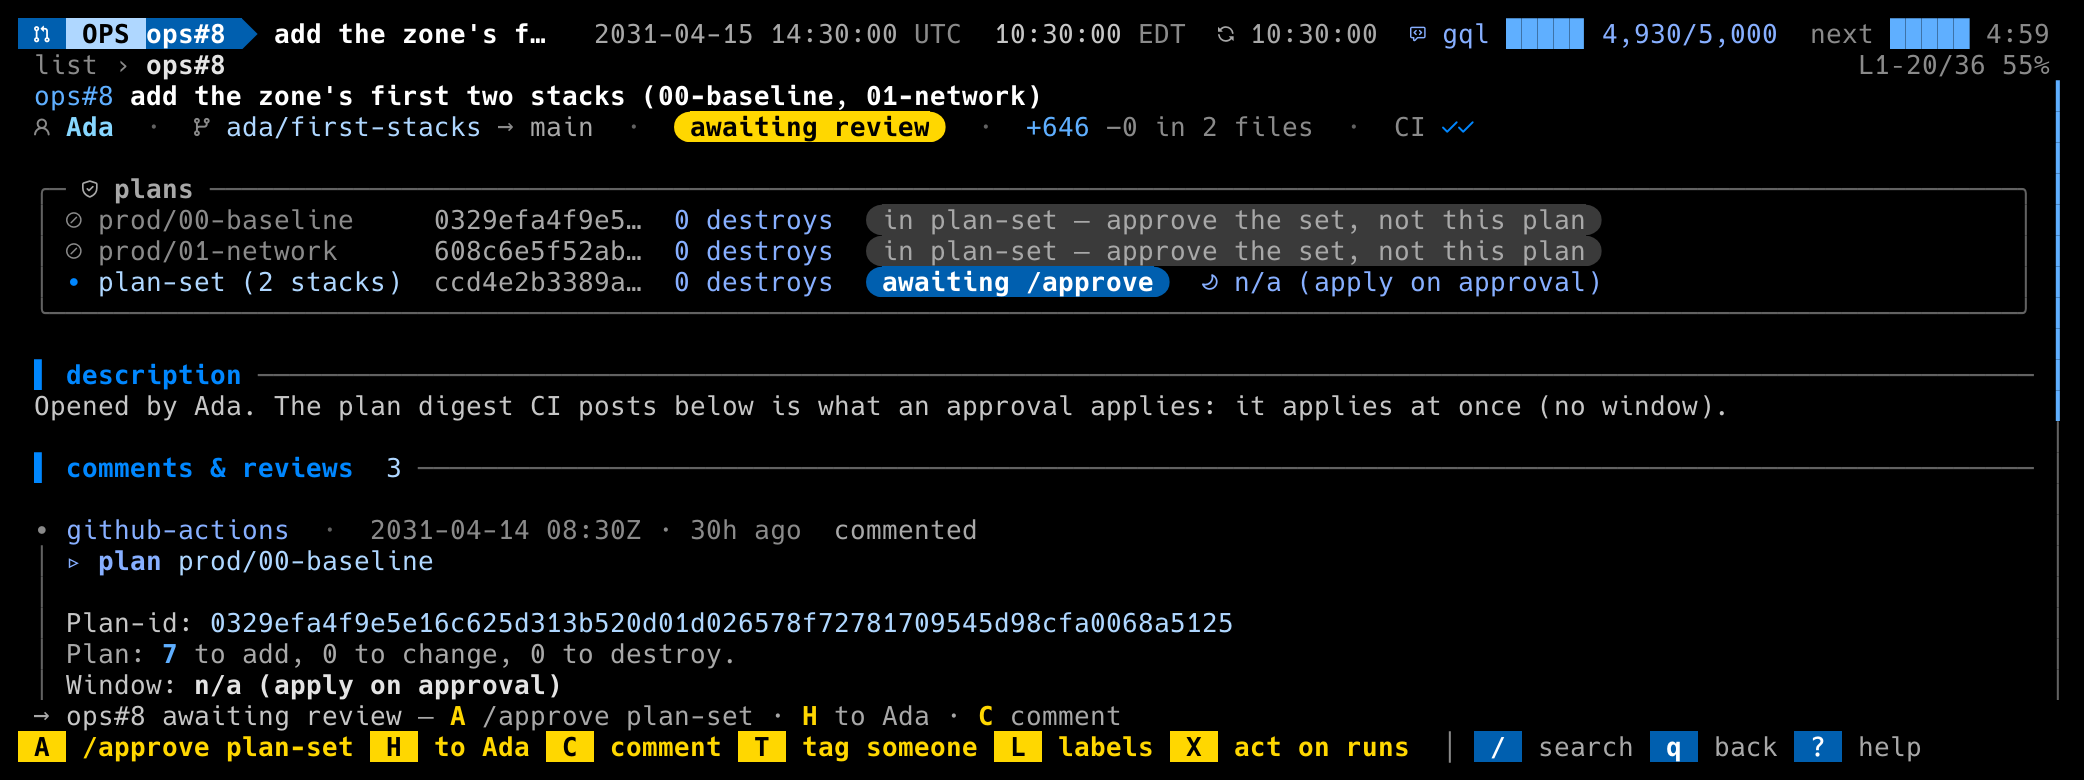
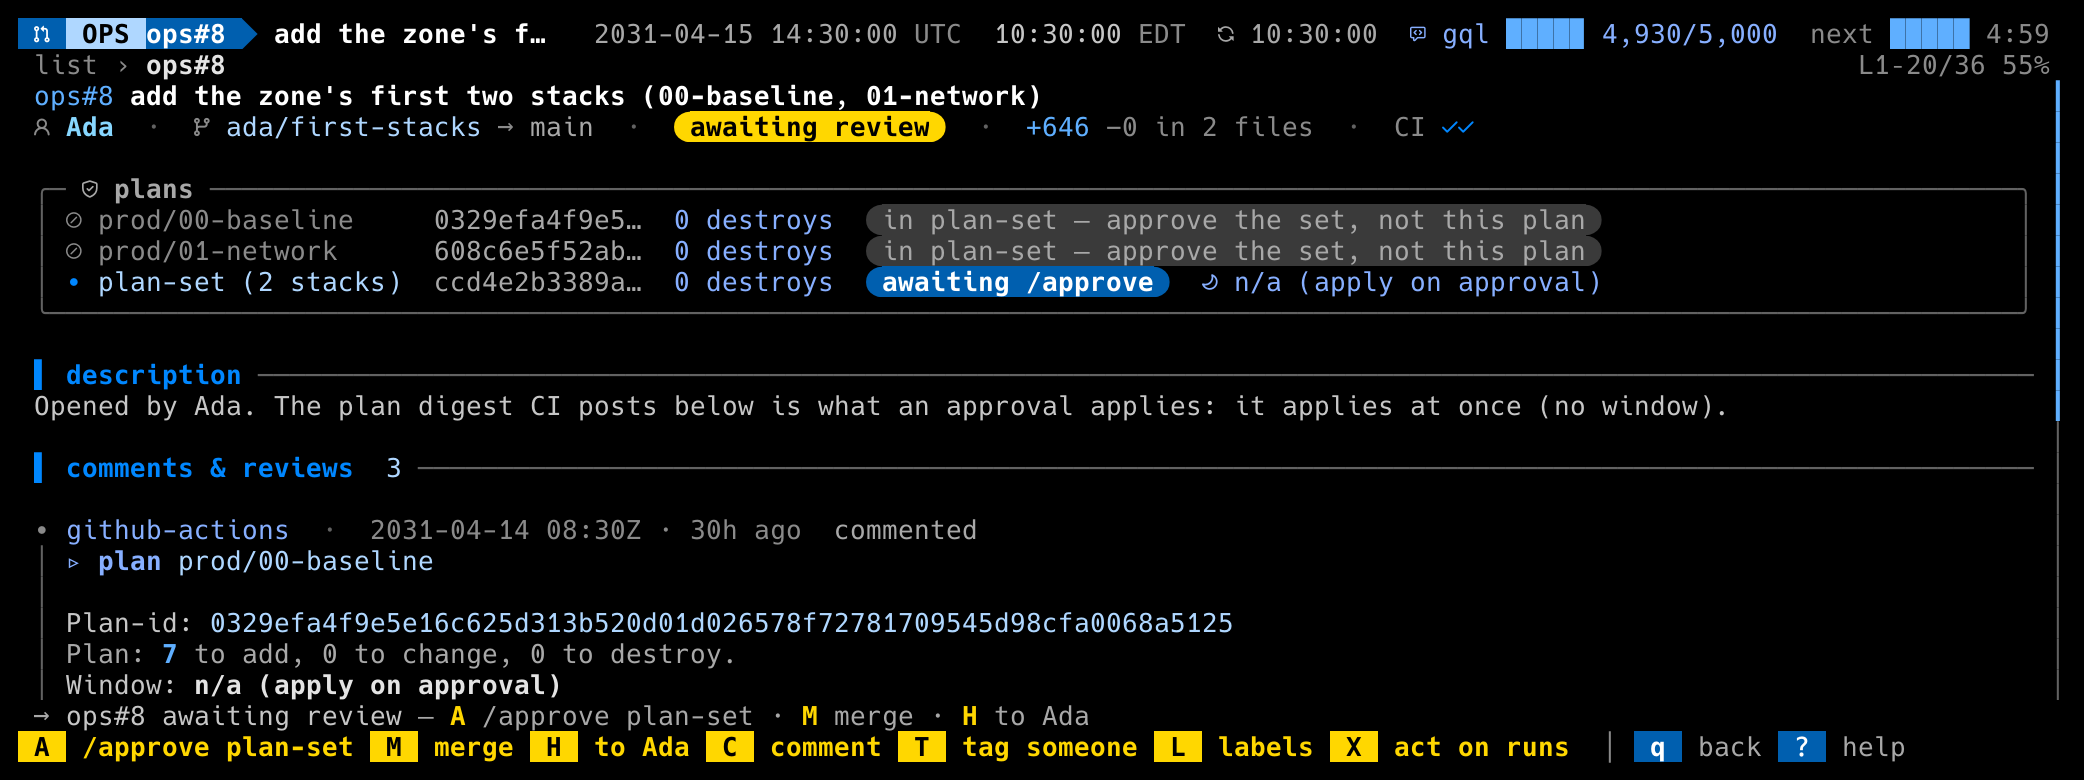
2.4.0: changelog and gallery
The changelog section for 2.4.0, the demo's since-the-cut numbers kept
clear of its promotion PR, and the gallery re-rendered for the stage
line's tail and the legend's automatic wait.

Changed region(s): [[0.1871, 0.8923, 0.9357, 0.9846]]

diff --git a/internal/demo/demo.go b/internal/demo/demo.go
@@ -412,7 +412,7 @@ func Client() *fake.Client {
 	// since release #91 was cut: two changes landed on the first tier and
 	// one more unit on staging, so the two branches differ
 	gh.Sinces = map[model.Repo]ghapi.Since{portal: {
-		First:     []ghapi.MergedPR{{Number: 912, Title: "feat: saved filters", MergedAt: at(40 * time.Minute)}, {Number: 913, Title: "fix: empty state copy", MergedAt: at(20 * time.Minute)}},
+		First:     []ghapi.MergedPR{{Number: 914, Title: "feat: saved filters", MergedAt: at(40 * time.Minute)}, {Number: 915, Title: "fix: empty state copy", MergedAt: at(20 * time.Minute)}},
 		Stage:     []ghapi.MergedPR{{Number: 910, Title: "chore: bump deps", MergedAt: at(30 * time.Minute)}},
 		FirstTree: "7a11000000000000000000000000000000000001", StageTree: "7a11000000000000000000000000000000000002",
 	}}

diff --git a/CHANGELOG.md b/CHANGELOG.md
@@ -1,5 +1,69 @@
 # Changelog
 
+## [2.4.0] — 2026-11-17
+
+**Who has to act.** For teams whose branch rules ask for a review only
+on the way into production, and whose release job approves its own
+deploys: `M` merges where no review is asked for, an environment that
+automation approves is left to it, the stage row says what merged since
+the release was cut, and the window asks for attendance only on the
+nights someone attends.
+
+### Added
+
+- **An environment that automation approves is left to it.** When a
+  `[bots]` login is among a waiting environment's required reviewers, a
+  merged PR's deploy reads `waits: prod · automatic`. It is not announced
+  or counted as yours, and `D` leaves the key bar. Past
+  `deploy_auto_grace_secs` (`[workflows.release_pr]`, 300; 0 leaves
+  nothing to automation) it becomes `approve: prod` like any other wait.
+  `D` works throughout: with nothing else to approve its question says
+  who is expected to approve, and with another environment that is yours
+  it approves that one and names the one it left. An environment reviewed
+  only by people is yours at once, and so is every run in the waiting
+  approvals section. ([#93])
+- **The stage row says what merged since the release was cut.** While a
+  release is open and the promote workflow names the first tier, the
+  `stage:` line ends `since the cut: +3 dev, +1 stage · dev ≠ stage`:
+  the PRs merged into each branch after the release's head landed on
+  staging, however they were merged, and whether the two branches hold
+  the same content (their root trees, so a squashed promotion reads
+  equal). `enter` on the line gives the verdict and names the PRs. A
+  read that fails leaves the tail off and warns. ([#94])
+- **`[merge] methods` per base branch.** A repo's value may be a table,
+  `{ default = "merge", stage = "squash" }`, so a repo can squash into
+  its staging branch and still merge its release with a merge commit. A
+  squashed promotion keeps the PR's number on its subject, which is how
+  the unit and its tag are found. ([#92])
+- **`attended_days`** (`[workflows.maintenance_window]`, e.g.
+  `["tue", "thu"]`): only those nights ask for the attend command.
+  Another night says `not an attended night — held items wait for Thu`
+  and still takes the commands. Unset, every night asks, as before.
+  ([#95])
+
+### Changed
+
+- **`M` merges where the branch asks for no review.** A branch whose
+  rules ask for no approving review reports no review decision, and `M`
+  refused every PR on it as not approved. `M` now goes by GitHub's merge
+  state there, and its question says `nobody has approved this`. It
+  stops when a reviewer asked for changes, when GitHub blocks the merge,
+  and while GitHub has not worked out whether the PR can merge; the key
+  bar offers it exactly when it would work. A PR that waits on a review
+  is refused as before. ([#92], [#93])
+- **The promote steps ask for a person, not an approver.** `P` (open the
+  promotion PR, merge it, tag go or hold) refuses a `[bots]` login and no
+  longer asks `approvers_team`: those steps are below production, where
+  the branch rules decide. ([#92])
+- **Enter on a stage row** names what merged since the cut when a release
+  is open; without one it says, as before, that the row is a branch.
+  ([#94])
+
+[#92]: https://github.com/solcyber/gh-dillodash/pull/92
+[#93]: https://github.com/solcyber/gh-dillodash/pull/93
+[#94]: https://github.com/solcyber/gh-dillodash/pull/94
+[#95]: https://github.com/solcyber/gh-dillodash/pull/95
+
 ## [2.3.0] — 2026-11-17
 
 **Polish.** The 2.1 and 2.2 speed-ups made safe, the key bar offers only
@@ -1155,6 +1219,7 @@ dashboard, as a GitHub CLI extension.
 - Fortress mode, the splash, wipes, confetti, the release launch, and Amos.
 - The bundled Hack Nerd Font Mono and `font install`.
 
+[2.4.0]: https://github.com/solcyber/gh-dillodash/compare/v2.3.0...v2.4.0
 [2.3.0]: https://github.com/solcyber/gh-dillodash/compare/v2.2.0...v2.3.0
 [2.2.0]: https://github.com/solcyber/gh-dillodash/compare/v2.1.0...v2.2.0
 [2.1.0]: https://github.com/solcyber/gh-dillodash/compare/v2.0.0...v2.1.0
